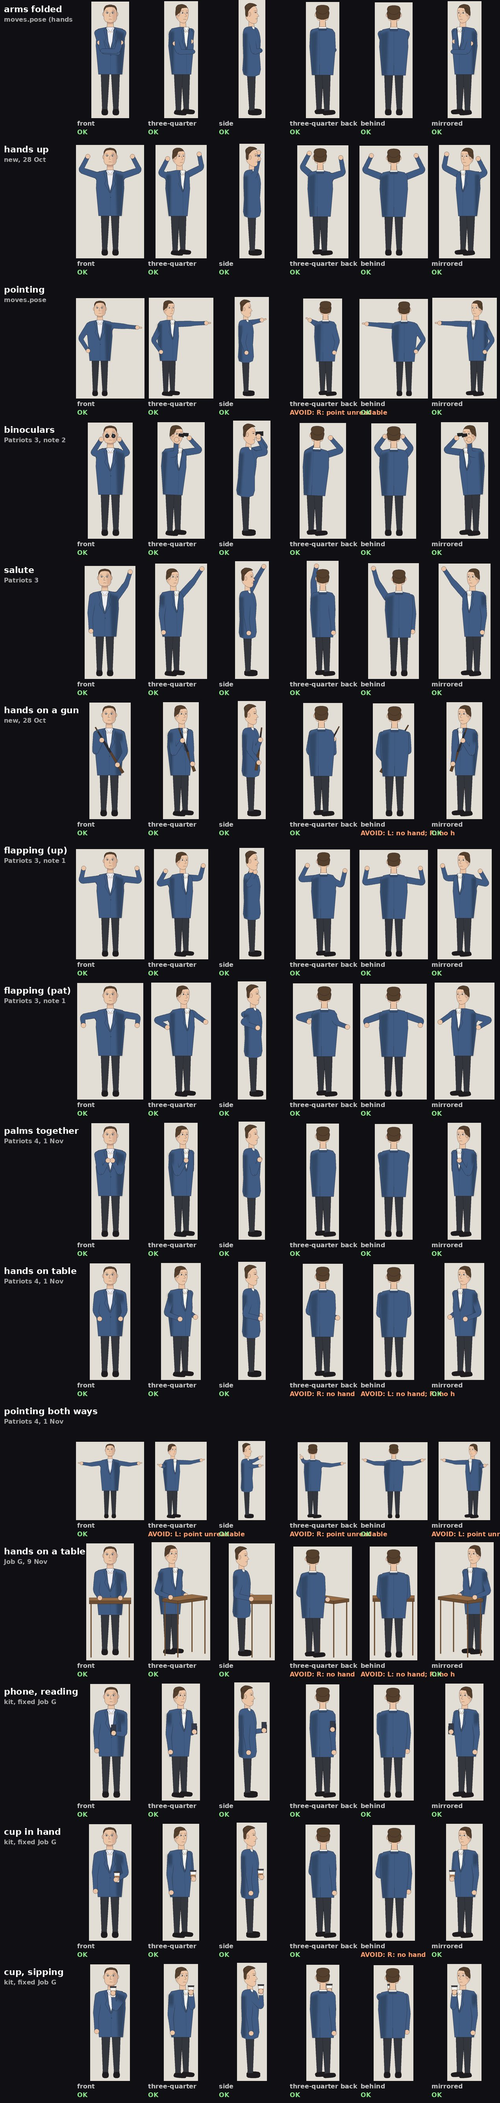
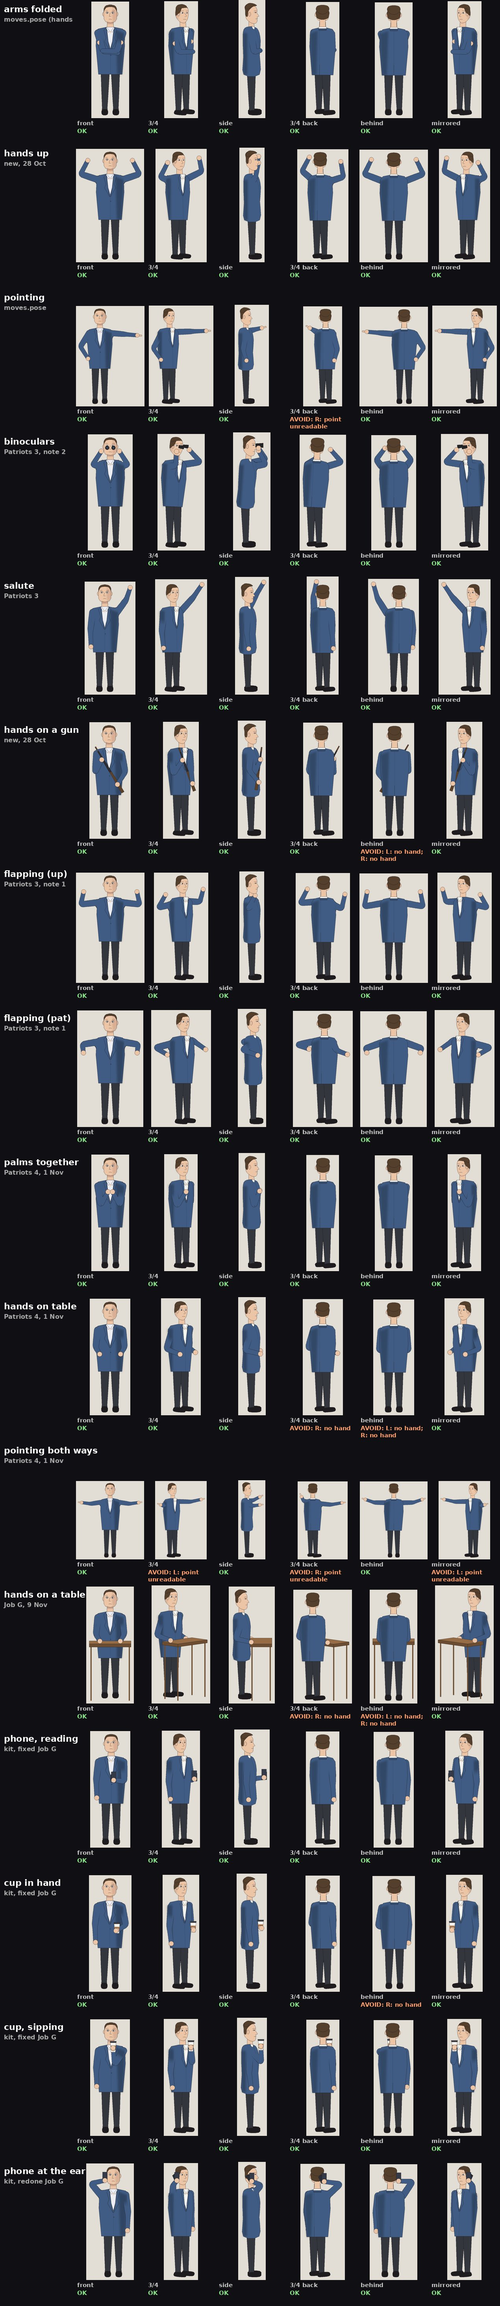
Job G chat 3 (steps 2-3): phone at the ear redone (it sat on top of his head); far-cheek hands hidden by the head; phone reading no longer drawn over his back; on-picture hand-meets-prop check (kittest held_prop_touches); gallery sheet labels kept in their columns; handover
Claude-Session: https://claude.ai/code/session_01J1JB7Xzz8z5Fu3jj11cych

diff --git a/source/handcheck.py b/source/handcheck.py
@@ -48,6 +48,7 @@ from ed import INK           # noqa: E402
 
 KEYS = {'L': ((255, 0, 255), (0, 255, 255)), 'R': ((255, 128, 0), (0, 255, 0))}   # (sleeve, hand) per arm
 PROP_HAND = (255, 255, 0)     # a hand drawn by a prop (gesture_hand called from outside views.hand)
+
 SEEN = 1.0                    # an arm is seen when this many hands' worth of its sleeve shows
 SHOWN = 0.35                  # ... and its hand must show at least this share of itself
 SHORT, BACK = 0.6, 0.25       # a forearm shown at under this share of its length (pointing at the lens) whose hand comes
@@ -111,7 +112,9 @@ def probe(img, args):
         finally:
             inside.pop()
 
-    V.PROBE.update({'L': KEYS['L'], 'R': KEYS['R'], 'full': {sd: (lambda p, sd=sd: B.Pen(full[sd], p.cam)) for sd in 'LR'}})
+    held = {sd: Image.new('RGBA', size, (0, 0, 0, 0)) for sd in 'LR'}   # a prop in each hand, alone (grips.held)
+    V.PROBE.update({'L': KEYS['L'], 'R': KEYS['R'], 'full': {sd: (lambda p, sd=sd: B.Pen(full[sd], p.cam)) for sd in 'LR'},
+                    'held': {sd: (lambda p, sd=sd: B.Pen(held[sd], p.cam)) for sd in 'LR'}})
     B.gesture_hand, V.hand = prop_hand, vhand
     n_log = len(F.LOG)
     import limbs
@@ -132,6 +135,7 @@ def probe(img, args):
     x1, y1 = max(b[2] for b in boxes), max(b[3] for b in boxes)
     cut = lambda im: im.crop((x0, y0, x1, y1))
     lay, full, props = cut(lay), {sd: cut(im) for sd, im in full.items()}, [(q, cut(o)) for q, o in props]
+    held = {sd: np.asarray(cut(im))[:, :, 3] > 40 for sd, im in held.items()}
     body, m = _key(lay)
     k = B.Local(cam, x, y, s).S(1.0)                # screen pixels per person unit
     bob = (joints or {}).get('bob', 0.0)
@@ -168,7 +172,7 @@ def probe(img, args):
         out['arms'][sd] = dict(fold=fold, fore=float(np.hypot(*v)) / (F.FORE * 0.98),
                                sleeve=m(KEYS[sd][0]), hand=hand_px[sd], full=full_px[sd],
                                shape=(j2.get('hand') or {}).get(sd, 'fist'), sh=pt['sh' + sd], el=pt['el' + sd],
-                               wr=pt['wr' + sd], reach=F.UPPER * k)
+                               wr=pt['wr' + sd], reach=F.UPPER * k, prop=held[sd])
     return out
 
 
@@ -227,6 +231,7 @@ def frame_faults(people):
                                      f"{back * 100:.0f}% of a forearm back towards the shoulder)"))
             out += [dict(who=pp['name'], side=sd, box=box, kind=kd, text=tx) for kd, tx in body_faults(pp, sd, a, expect)]
             out += [dict(who=pp['name'], side=sd, box=box, kind=kd, text=tx) for kd, tx in seam_faults(pp, sd, a)]
+            out += [dict(who=pp['name'], side=sd, box=box, kind=kd, text=tx) for kd, tx in held_faults(pp, sd, a)]
             # in the frame (everyone stacked in drawing order): a hand over the body of someone at about the same
             # distance. (A hand hidden behind someone nearer the lens is ordinary staging: not a fault.)
             vis_hand = hand & mine
@@ -333,6 +338,27 @@ def body_faults(pp, sd, a, expect):
 
 
 SEAM = 3                      # of the 7 lines walked across a shoulder, this many crossing a line or gap is a seam
+
+
+TOUCH = 0.12                  # a hand must come within this share of a hand's width of what it holds, on the picture
+
+
+def held_faults(pp, sd, a):
+    """Job G (chat 3): a hand meets what it holds ON THE PICTURE, not only in 3D (grips.contact_faults). The prop
+    (grips.held: a phone, a cup) is drawn alone on its own layer and the hand alone on another; their nearest pixels
+    must be within TOUCH of a hand's width. Hidden or not does not matter here (that is 'no hand'): a gap between
+    them reads as a prop floating beside the hand from every view."""
+    prop = a.get('prop')
+    if prop is None or not prop.any() or not a['full'].any():
+        return []
+    out = []
+    from scipy import ndimage
+    gap = ndimage.distance_transform_edt(~prop)[a['full']].min()
+    width = 2 * math.sqrt(pp['expect'] / math.pi)
+    if gap > TOUCH * width:
+        out.append(('off its prop', f"the hand doesn't touch what it holds on the picture (a gap of "
+                                    f"{gap / width:.1f} hand-widths)"))
+    return out
 
 
 def seam_faults(pp, sd, a):

diff --git a/source/posegallery.py b/source/posegallery.py
@@ -219,6 +219,7 @@ GALLERY = [   # (name, pose(sp) -> joints, where it came from)
     ('phone, reading', _kit('phone_read'), 'kit, fixed Job G'),
     ('cup in hand', _kit('mug'), 'kit, fixed Job G'),
     ('cup, sipping', _kit('mug_sip'), 'kit, fixed Job G'),
+    ('phone at the ear', _kit('phone_ear'), 'kit, redone Job G'),
 ]
 
 
@@ -282,6 +283,22 @@ def tiles(ims, tw, th):
             for im, b in zip(ims, bs)]
 
 
+def _wrap(text, font, width):
+    """Words in lines no wider than `width` pixels (a word too long alone is cut to fit)."""
+    lines, cur = [], ''
+    for w in text.split():
+        t = (cur + ' ' + w).strip()
+        if font.getlength(t) <= width:
+            cur = t
+            continue
+        if cur:
+            lines.append(cur)
+        while font.getlength(w) > width and len(w) > 1:
+            w = w[:-1]
+        cur = w
+    return lines + ([cur] if cur else [])
+
+
 results = {}                  # the last run: {pose: views that failed}
 
 
@@ -294,7 +311,7 @@ def main():
     gallery = list(GALLERY)
     if '--all' in args:
         import moves
-        have = {'arms_folded', 'point'}
+        have = {'arms_folded', 'point', 'phone_read', 'mug', 'mug_sip', 'phone_ear'}
         gallery += [(n.replace('_', ' '), (lambda sp, n=n: moves.pose(sp, n)), 'moves.pose') for n in moves.POSES
                     if n not in have and n != 'standing']
     if '--only' in args:
@@ -310,12 +327,12 @@ def main():
     H.install()
     font = ImageFont.truetype(B.SANS, 22)
     tw, th = 180, 300
-    sheet = Image.new('RGB', (190 + tw * len(VIEWS), (th + 56) * len(gallery)), (16, 16, 20))
+    sheet = Image.new('RGB', (190 + tw * len(VIEWS), (th + 66) * len(gallery)), (16, 16, 20))
     d = ImageDraw.Draw(sheet)
     bad = 0
     results.clear()
     for r, (name, build, src) in enumerate(gallery):
-        y = r * (th + 56)
+        y = r * (th + 66)
         d.text((10, y + 10), name, font=font, fill=(255, 255, 255))
         d.text((10, y + 40), src[:18], font=ImageFont.truetype(B.SANS, 16), fill=(170, 170, 170))
         res = test(name, build)
@@ -325,11 +342,14 @@ def main():
             tile = tl[c]
             x = 190 + c * tw
             sheet.paste(tile, (x + (tw - tile.width) // 2, y + th - tile.height))
-            msg = 'OK' if not faults else ('AVOID: ' if label in AVOID.get(name, {}) else '') + \
-                '; '.join(f"{f['side']}: {f['kind']}" for f in faults)
-            d.text((x + 6, y + th + 4), label, font=ImageFont.truetype(B.SANS, 16), fill=(200, 200, 200))
-            d.text((x + 6, y + th + 26), msg[:26], font=ImageFont.truetype(B.SANS, 16),
-                   fill=(140, 230, 140) if not faults else (255, 160, 110))
+            avoid = AVOID.get(name, {}).get(label)
+            msg = ('OK' if not avoid else 'AVOID: ' + avoid.split(':')[-1].split('(')[0].strip()) if not faults else \
+                ('AVOID: ' if avoid else '') + '; '.join(f"{f['side']}: {f['kind']}" for f in faults)
+            small = ImageFont.truetype(B.SANS, 15)
+            d.text((x + 6, y + th + 4), label.replace('three-quarter', '3/4'), font=small, fill=(200, 200, 200))
+            for n, line in enumerate(_wrap(msg, small, tw - 10)[:2]):   # kept inside its own column (Job G chat 3:
+                d.text((x + 6, y + th + 24 + 18 * n), line, font=small,   # labels ran into the next one)
+                       fill=(140, 230, 140) if msg == 'OK' else (255, 160, 110))
         fails = [(label, f) for label, _, fs in res for f in fs]
         new = {label for label, _ in fails} - set(AVOID.get(name, {}))
         bad += bool(new)

diff --git a/source/moves.py b/source/moves.py
@@ -241,6 +241,28 @@ def _phone(p, j2, side, ear=False):
                (150, 190, 230), None)
 
 
+def phone_at_ear(j, sp, side='R'):
+    """A phone held to the ear (Job G chat 3; Sam's note: the phone sat on top of his head and the arm wrapped over
+    it). The hand is at the cheek, below the ear; the phone is a flat slab in 3D lying along the side of the head from
+    the ear down towards the mouth, so side on it covers the ear, front on it is a thin edge beside the face, and from
+    the far side the head hides it. The elbow goes forward and out (with this rig's long arms it sits about chin
+    height: the forearm cannot reach the cheek from lower)."""
+    sg = -1 if side == 'L' else 1
+    hw = sp.get('hw', 70)
+    V.arm_to(j, side, (sg * (hw + 20), -98.0, 12.0), (1.0, 0.35, 0.6), 'phone')
+    lean = j.get('lean', 0.0)
+    top, bot = (-162.0, -40.0), (-88.0, 10.0)               # (y, z): the ear (side view, z ~ -18) down towards the jaw
+    ay, az = bot[0] - top[0], bot[1] - top[1]
+    n = math.hypot(ay, az)
+    wy, wz = -az / n * 20, ay / n * 20                     # half the phone's width, across it in the head's side plane
+    box = [(sg * x, y + k * wy, z + k * wz) for x in (hw + 2, hw + 14) for y, z in (top, bot) for k in (-1, 1)]
+
+    def draw(p, j2):
+        pts = [V.project(V.leaned(q, lean), j2['yaw'])[0] for q in box]
+        p.poly(V._hull(pts), (40, 44, 54), INK, 2.2)
+    return _held(j, side, sp, draw)
+
+
 def _paper(p, j2):
     a, b = j2['wrL'], j2['wrR']
     x0, x1 = min(a[0], b[0]) - 10, max(a[0], b[0]) + 10
@@ -375,9 +397,8 @@ def pose(sp, name, beat=0.0, target=None):
         j['on_face'] = {'L', 'R'}
     elif name == 'heart':
         V.arm_to(j, 'R', (40.0, 160.0, 46.0), 'down', 'palm')
-    elif name == 'phone_ear':
-        V.arm_to(j, 'R', (82.0, -140.0, 16.0), (0.6, 1.0, 0.7), 'phone')       # elbow down and forward, forearm up
-        _held(j, 'R', sp, lambda p, j2: _phone(p, j2, 'R', ear=True))   # in the right order from every view (Job G)
+    elif name == 'phone_ear':                               # the left hand: the ear nearer us side on facing right
+        phone_at_ear(j, sp, 'L')                             # (and three-quarter back); facing left, use 'R'
     elif name == 'phone_read':
         j['head_dy'] = 8
         V.arm_to(j, 'R', (30.0, 230.0, 180.0), 'down', 'phone')
@@ -421,7 +442,7 @@ POSES = ('standing', 'relaxed', 'hips', 'arms_folded', 'pockets', 'behind_back',
 READS_FROM_BEHIND = {'standing': True, 'relaxed': True, 'shrug': True, 'point': True, 'chop': True, 'hands_up': True,
                      'exasperated': True, 'hips': False, 'arms_folded': False, 'pockets': False, 'behind_back': False,
                      'palms_together': False, 'palm_open': False, 'heart': False, 'facepalm': False,
-                     'head_in_hands': False}
+                     'head_in_hands': False, 'phone_ear': True, 'phone_read': False}
 
 
 def reads_from_behind(name):

diff --git a/source/grips.py b/source/grips.py
@@ -52,10 +52,20 @@ def _ray_hits(c, yaw, rx, rz, cx=0.0, cz=0.0):
 def hidden_by(c, yaw, sp):
     """'torso', 'head' or None: what of his own body hides the body-frame point c from this view."""
     sw, hw = sp.get('shoulders', 150), sp.get('hw', 70)
-    if -5.0 <= c[1] <= sp.get('bottom', V.JACKET) - 20 and _ray_hits(c, yaw, RX * sw * 0.95, RZ * sw * 0.95):
-        return 'torso'
-    if -250.0 <= c[1] <= -40.0 and _ray_hits(c, yaw, hw * 0.95, hw * 0.95):
-        return 'head'
+    a = math.radians(yaw)
+    depth = -c[0] * math.sin(a) + c[2] * math.cos(a)
+    rx, rz = RX * sw * 0.95, RZ * sw * 0.95
+    if -5.0 <= c[1] <= sp.get('bottom', V.JACKET) - 20 and (
+            _ray_hits(c, yaw, rx, rz) or (depth < -0.5 * math.hypot(rx * math.sin(a), rz * math.cos(a)) and
+                                          abs(c[0] * math.cos(a) + c[2] * math.sin(a)) <
+                                          1.25 * math.hypot(rx * math.cos(a), rz * math.sin(a)))):
+        return 'torso'             # (or beyond his body's middle, just past its edge: the drawn jacket is wider than
+    #                                this oval, so a phone read in front of him, seen three-quarter back, sat over
+    #                                his back at its edge: Job G chat 3)
+    if -250.0 <= c[1] <= -40.0:
+        if _ray_hits(c, yaw, hw * 0.95, hw * 0.95) or depth < -0.25 * hw:
+            return 'head'          # (or beyond the head's middle: a phone at the far ear, three-quarter on, peeks out
+    #                                from behind the face; drawn over it, it lay across his eye: Job G chat 3)
     return None
 
 
@@ -80,6 +90,8 @@ def held(j, side, sp, draw, at=None, hand_over=True):
 
     def go(p, j2):
         draw(p, j2)
+        if V.PROBE.get('held'):                     # handcheck: the prop alone on its own layer, so the hand can be
+            draw(V.PROBE['held'][side](p), j2)      # checked against it on the picture (Job G chat 3)
         if hand_over:                                # the fingers wrap the side we see: the hand over the prop
             V.hand(p, j2, side, sp, j2.get('hand', {}).get(side, 'fist'))
 

diff --git a/source/kittests.py b/source/kittests.py
@@ -491,6 +491,53 @@ def shoulder_seam_caught():
             f"line painted (near arm): {line}")
 
 
+@test
+def held_prop_touches():
+    """Job G chat 3: a hand meets what it holds on the picture (handcheck.held_faults), not only in 3D. The phone at
+    the ear (redone: the phone sat on top of his head) and the cup are clean from every view; the same phone drawn a
+    hand's width and more away from the hand is caught."""
+    import burnham as B
+    import figure as F
+    import handcheck as H
+    import kitchecks
+    import limbs
+    import moves
+    import posegallery as G
+    import views as V
+    from PIL import Image
+    from satire_style import install_circle_hands
+    B.SS = 1
+    F.guard(B)
+    F._ALLOW.append('the pose gallery')
+    install_circle_hands(B)
+    limbs.install(B)
+    kitchecks.install()
+    H.install()
+
+    def faults(j, deg):
+        im = Image.new('RGBA', (1200, 1100), G.BG)
+        H.begin()
+        V.person(im, B.Cam(1.0, 540, 960), 600, 330, 0.62, G.MODEL, 0.0, deg, j)
+        pp = H.FRAME[-1]
+        H.end(0.0)
+        return [f for sd in 'LR' for f in H.held_faults(pp, sd, pp['arms'][sd])], \
+            sum(int(pp['arms'][sd]['prop'].any()) for sd in 'LR')
+
+    clean, seen = [], 0
+    for name in ('phone_ear', 'phone_read', 'mug', 'mug_sip'):
+        for deg, _ in G.VIEWS:
+            fs, n = faults(moves.pose(G.MODEL, name), float(deg))
+            clean += fs
+            seen += n
+    far = V.standing(G.MODEL)
+    V.arm_to(far, 'R', (120.0, 300.0, 120.0), 'down', 'grip')
+    moves._held(far, 'R', G.MODEL, lambda p, j2: moves._phone(p, {**j2, 'wrR': (j2['wrR'][0] + 90, j2['wrR'][1] - 90)},
+                                                              'R'))
+    caught = faults(far, 0.0)[0]
+    return not clean and seen == 24 and bool(caught), f"kit poses: {clean or 'clean'} ({seen} of 24 props seen); " \
+                                                       f"phone moved off the hand: {caught}"
+
+
 def main():
     only = sys.argv[1] if len(sys.argv) > 1 else ''
     bad = 0

diff --git a/source/views.py b/source/views.py
@@ -892,6 +892,9 @@ def _person(img, cam, x, y, s, sp, t, yaw, joints, head_yaw, squash):
     for sd in sorted(j.get('on_face', ())):       # a hand touching the face is in front of it, never inside the skull
         if view in ('back', 'three_back') and depth['wr' + sd] < -10:
             continue                               # (from behind, a hand at his face is behind his head: Job G)
+        import grips                               # a hand at the far cheek (a phone at the ear seen side on) is
+        if grips.hidden_by(grips.hand_centre(j, sd), view_deg, sp) == 'head':   # beyond the head: the head hides it
+            continue                               # (Job G chat 3: the arm was drawn across his face)
         arm(p, j2, sd, sp)
     for draw in j.get('face_props', []):
         draw(p, j2)

diff --git a/notes/next-jobs.md b/notes/next-jobs.md
@@ -1,23 +1,25 @@
 # Where things stand (project, 10 Nov; no film in progress)
 
-- **Rules that bite next:** 85 (cost watch: chat 2 went amber after step 1, so it handed over), 81 (seam now
-  checked automatically), 86 (Job G stays inside its 3.5-4%).
-- **Done (10 Nov, Job G chat 2, step 1, Opus high, about 0.6%):** the shoulder gap found and fixed at its cause: an
-  arm joined the body left over from the last drawing (the last view, or the last frame as someone turned), cutting
-  a gap or leaving dark ticks at the shoulder. Every pose redrawn and compared: only cleaner. New automatic seam
-  check in the hand check (films get it in pre-flight), and a test that proves it catches a gap and a line.
-- **Next:** Job G chat 3, new chat, **Opus, high effort**. Type: "Job G chat 3: read notes/next-jobs.md Where things
-  stand and the Job G section." No new estimate: steps 2-6 fit in the rest of chat 2's price (about 1-1.4%).
-  After G: Job H (critique helper, about 2%): first chat Opus, max effort; type "Job H: critique helper. Read
-  notes/next-jobs.md Where things stand and Build plan H. Estimate first (rule 86)."
+- **Rules that bite next:** 85 (cost watch: chat 3 went amber after step 3, so it handed over), 41 (the hand check now
+  also tests a hand against what it holds, on the picture), 86 (Job G stays inside its 3.5-4%).
+- **Done (10 Nov, Job G chat 3, steps 2-3, Opus high, about 1.5%):** phone at the ear redone (hand at the cheek, the
+  phone flat along the side of the head, elbow forward; passes all 6 views; the left hand by default); a hand at the
+  far cheek is now hidden behind the head (it was drawn across his face side on); phone reading from three-quarter back
+  no longer sits over his back (hidden by it: the gallery notes say avoid that view); new automatic check: a hand must
+  touch its prop on the picture (a test proves it catches a gap); sheet labels no longer run into the next column.
+- **Next:** Job G chat 4, new chat, **Opus, high effort**. Type: "Job G chat 4: read notes/next-jobs.md Where things
+  stand and the Job G section." Steps 4-6, about 1%. After G: Job H (critique helper, about 2%): first chat Opus, max
+  effort; type "Job H: critique helper. Read notes/next-jobs.md Where things stand and Build plan H. Estimate first
+  (rule 86)."
 - **Needs Sam:** nothing.
 - **Read:** this file's Job G section; `guides/pose-gallery.md` top paragraph.
 - **Open rule requests:** none. Step 6 proposes merging rules 41, 42 and 81 (81's check column still says "no
   automatic seam test yet": put right in that proposal).
-- **For Claude:** `limbs.DRAW/NEXT` (views._person counts drawings; an arm's body key is cam, id(img), drawing;
-  handcheck.probe restores DRAW); `handcheck.seam_faults` (7 lines walked out along the upper arm: jacket, ink or
-  gap, sleeve = seam; arms in `j2['_drawn']['behind']` only a gap); probe adds inkpx/other/cloth/behind; kittest
-  `shoulder_seam_caught`. Sheet `guides/pose-gallery.jpg` redrawn.
+- **For Claude:** `moves.phone_at_ear` (3D slab, `V._hull`); `grips.hidden_by` adds depth tests (head: beyond 0.25 hw;
+  torso: beyond half its depth and within 1.25x its screen width); views skips an `on_face` arm hidden by the head;
+  `handcheck.held_faults` (PROBE['held'] layer per side, TOUCH 0.12), kittest `held_prop_touches`. Unfinished: a
+  "prop hidden" check (keyed prop pixels came back lightened, ~x1.3, in the probe: find why, then AVOID phone reading
+  from behind in the dict too); `posegallery._wrap`.
 
 ## Job G (Sam: Y, 9 Nov, about 3.5-4% over two chats)
 Found first: the gallery's "OK" meant only "a hand is visible"; it passed faults Sam would flag (sheet sent 9 Nov).
@@ -29,11 +31,10 @@ Found first: the gallery's "OK" meant only "a hand is visible"; it passed faults
   behind the body (palms together showed a hand on his back), points straightened (`views.aim`), the one-piece finger
   (Ad-Vanced 39b) is now the house finger. New gallery rows: hands on a table (drawn), phone reading, cup in hand,
   cup sipping. AVOID lists updated (pointing three-quarter back, pointing both ways three views, cup behind).
-- **Chat 2 (about 1.5-2%), in order:** (1) DONE 10 Nov (chat 2; the rest moves to chat 3): the shoulder-seam check,
-  automatic, and the gap's cause fixed (a leftover body); (2) phone at the ear: rework (the phone sits on top of
-  the head and the arm wraps over it, front and three-quarter; not yet in the gallery); (3) a screen check that a
-  hand meets its prop on the picture (only 3D is checked now); phone reading from three-quarter back: phone and
-  hand may still sit over his back at its edge (critique, not yet measured); sheet labels overlap the next column; (4) lying: gallery rows and checks (both arms on one
+- **Chat 2 (about 1.5-2%), in order:** (1) DONE 10 Nov (chat 2): the shoulder-seam check, automatic, and the gap's
+  cause fixed (a leftover body); (2) DONE 10 Nov (chat 3): phone at the ear redone, in the gallery; (3) DONE 10 Nov
+  (chat 3): the on-picture hand-meets-prop check; phone reading from three-quarter back fixed (now hidden: avoid);
+  sheet labels; (4) lying: gallery rows and checks (both arms on one
   side, arm curled, neck); (5) pre-flight flags a pose not from the gallery or seen from an AVOID view; new poses
   priced at planning; (6) rules 41, 42 and 81 merged, by-hand parts automatic (propose wording to Sam first).
 - Not done in chat 1, on purpose: old films' own finger copies are unchanged; the kit's cup and phone (moves.py, also

diff --git a/guides/pose-gallery.md b/guides/pose-gallery.md
@@ -35,9 +35,10 @@ pose still passes wherever this table says it does.
 | hands on table | `posegallery.hands_on_table(sp, h)` | Patriots 4, 1 Nov | front, three-quarter, side | three-quarter back, behind | both palms on a table edge `h` metres high in front; from behind the table is beyond him, so the hands are hidden |
 | pointing both ways | `posegallery.point_both(sp)` | Patriots 4, 1 Nov | front, side, behind | three-quarter, three-quarter back, mirrored | both arms flung out straight (`views.aim`), one finger at each of two people; side on, one arm points away and the point doesn't read |
 | hands on a table (drawn) | `posegallery.hands_on_table_drawn(sp, h)` | Job G, 9 Nov | front, three-quarter, side, mirrored | three-quarter back, behind | `grips.Table` drawn with him; prefer it to "hands on table" |
-| phone, reading | `moves.pose(sp, 'phone_read')` | kit, fixed Job G | all 6 views | | phone held up to read, the hand over its bottom |
+| phone, reading | `moves.pose(sp, 'phone_read')` | kit, fixed Job G | front, three-quarter, side, mirrored | three-quarter back, behind | phone held up to read, the hand over its bottom; from behind his back hides it (it was drawn over his back at its edge until Job G chat 3), so the pose doesn't read there |
 | cup in hand | `moves.pose(sp, 'mug')` | kit, fixed Job G | front, three-quarter, side, three-quarter back, mirrored | behind | takeaway cup at the hip |
 | cup, sipping | `moves.pose(sp, 'mug_sip')` | kit, fixed Job G | all 6 views | | cup at the lips; from behind it is hidden by his head |
+| phone at the ear | `moves.pose(sp, 'phone_ear')` (`moves.phone_at_ear(j, sp, side)`) | kit, redone Job G chat 3 | all 6 views | | the left hand: hand at the cheek, the phone flat along the side of the head from the ear down, elbow forward and out. Side on or three-quarter back facing left, use `side='R'` (the phone must be at the ear nearer us there: at the far ear the head hides the hand) |
 
 **Seated poses (the sitting kit, `source/sitting.py`; plan and notes `notes/archive/sitting-kit.md`).** Sheet: `python3 source/sitting.py sheet OUT.jpg`; photos beside them: `sitting.py refs OUT.jpg`; checks: `sitting.py audit`.
 

diff --git a/notes/archive/next-jobs-handovers.md b/notes/archive/next-jobs-handovers.md
@@ -131,3 +131,24 @@
 - **For Claude:** checks in `handcheck.body_faults`; `grips.py` (held, Table, on_table, contact_faults, Carry);
   `views.aim`; views `_person` (no mirror at 0/180; three_back reach hands behind; on_face skipped from behind);
   `posegallery.py` (VIEWS 6, flip test, tiles); kittest `grips_contacts_and_carry`. Sheet: `guides/pose-gallery.jpg`.
+
+## Job G chat 2 handover (10 Nov)
+
+- **Rules that bite next:** 85 (cost watch: chat 2 went amber after step 1, so it handed over), 81 (seam now
+  checked automatically), 86 (Job G stays inside its 3.5-4%).
+- **Done (10 Nov, Job G chat 2, step 1, Opus high, about 0.6%):** the shoulder gap found and fixed at its cause: an
+  arm joined the body left over from the last drawing (the last view, or the last frame as someone turned), cutting
+  a gap or leaving dark ticks at the shoulder. Every pose redrawn and compared: only cleaner. New automatic seam
+  check in the hand check (films get it in pre-flight), and a test that proves it catches a gap and a line.
+- **Next:** Job G chat 3, new chat, **Opus, high effort**. Type: "Job G chat 3: read notes/next-jobs.md Where things
+  stand and the Job G section." No new estimate: steps 2-6 fit in the rest of chat 2's price (about 1-1.4%).
+  After G: Job H (critique helper, about 2%): first chat Opus, max effort; type "Job H: critique helper. Read
+  notes/next-jobs.md Where things stand and Build plan H. Estimate first (rule 86)."
+- **Needs Sam:** nothing.
+- **Read:** this file's Job G section; `guides/pose-gallery.md` top paragraph.
+- **Open rule requests:** none. Step 6 proposes merging rules 41, 42 and 81 (81's check column still says "no
+  automatic seam test yet": put right in that proposal).
+- **For Claude:** `limbs.DRAW/NEXT` (views._person counts drawings; an arm's body key is cam, id(img), drawing;
+  handcheck.probe restores DRAW); `handcheck.seam_faults` (7 lines walked out along the upper arm: jacket, ink or
+  gap, sleeve = seam; arms in `j2['_drawn']['behind']` only a gap); probe adds inkpx/other/cloth/behind; kittest
+  `shoulder_seam_caught`. Sheet `guides/pose-gallery.jpg` redrawn.

diff --git a/story/status.md b/story/status.md
@@ -15,8 +15,8 @@ Read only the section you need (`grep -n '^## ' story/status.md`). Finished film
 
 ## Films
 Elder Scrolls: Swindon: FINAL sent 9 Nov (36.6 s, 17.9 MB; Sam skipped animatic 6). Waiting for his notes or posting.
-Job G chat 2 step 1 done 10 Nov: the shoulder gap Sam kept seeing was fixed at its cause (an arm joining a body left over from the last drawing); the seam is now checked automatically.
-Next: Job G chat 3 (new chat, Opus high): phone-at-ear pose, hand-meets-prop on screen, lying, gallery-only poses in pre-flight, rules 41/42/81 merge proposal. Handover: notes/next-jobs.md "Where things stand".
+Job G chat 3 done 10 Nov: phone at the ear redone (it sat on top of his head), a new check that every hand touches what it holds on the picture, phone reading no longer drawn over his back.
+Next: Job G chat 4 (new chat, Opus high): lying poses, gallery-only poses in pre-flight, rules 41/42/81 merge proposal. Handover: notes/next-jobs.md "Where things stand".
 - **Next jobs (handover in `notes/next-jobs.md`):** (1) sitting-animation kit: CLOSED 9 Nov (Sam: finished; questions 9-10 kept as built); (2) forearm-and-elbow check for rule 78: built 8 Nov (`kitchecks.rests`; films list resting arms in `RESTS`). Rules 74, 78, 79 written 7 Nov; the touch check now says COULD NOT TEST.
 - **Ad-Vanced Notice (9 Nov): FINAL sent and POSTED** (`animations/ad-vanced-notice-vertical.mp4`, 47 s, 8.1 MB). New ending (the man begs, "Ew. God, no."), street scene, line 9 outrage. Notes: `notes/ad-vanced-notice.md`.
 - **Islamocommunism (5 Nov): FINAL sent** (`animations/islamocommunism-vertical.mp4`, 73 s, 7.8 MB). Week 100%. Open rule requests in `notes/archive/islamocommunism.md`.
